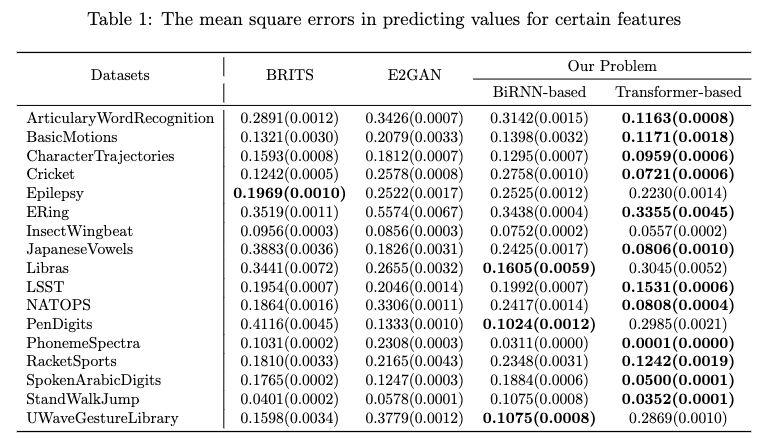
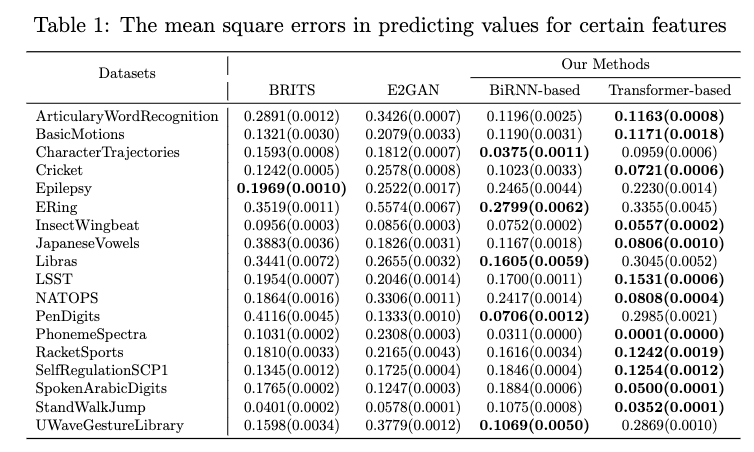
update the performance of generative model performance

diff --git a/Train_GenModel.py b/Train_GenModel.py
@@ -1,14 +1,13 @@
-from models.DistributionApproximation.TimeSeriesGen import TimeSeriesGen_GAN
-from Trainer.Trainer_TimeSeriesGen import TimeSeriesGEN_Trainer
-from datasets.MultivariateUEA import *
+from models.DistributionApproximation.TimeSeriesRnnVAEReconstructor import TimeSeriesRNNVAEGen_GAN
+from Trainer.Trainer_TimeSeriesRNNVAEReconstructor import TimeSeriesRNNVAEReconstructorTrainer
+from datasets.copyMultivariateUEA import MultivariateUEA_train, MultivariateUEA_test
 import pandas as pd
-from datasets.mnist import MNIST_train, MNIST_test
 
 def UAEmain():
     
     UEASummary = pd.read_csv('./datasets/Data/MultivariateUEA/Summary.csv')
     
-    for i in [0, 2, 3, 7, 9, 15, 16, 17, 18, 20, 21, 23, 24, 27, 12, 25, 29, 28, 4]:
+    for i in [15]:
         problem = UEASummary.iloc[i]['Problem']
         sequence_length = UEASummary.iloc[i]['SeriesLength']
         MTS_size = [UEASummary.iloc[i]['SeriesLength'], UEASummary.iloc[i]['NumDimensions']]
@@ -18,15 +17,15 @@ def UAEmain():
         num_classes = UEASummary.iloc[i]['NumClasses']
         input_dim = UEASummary.iloc[i]['NumDimensions']
 
-        dataset = problem
-        params = {
-            'input_dim': input_dim,
-            'latent_dim': 32,
-            'sequence_length': sequence_length,
-            'lr':0.001
-        }
+        latent_dim = 128
+        kl_lambda = 0.00001
+        rec_lambda = 1.0
 
-        model = TimeSeriesGen_GAN(params = params, train_dataset=train_dataset, test_dataset=test_dataset, val_dataset=test_dataset)
+        dataset = 'MultivariateUEA'
+        model_label = problem
+
+        print(problem)
+        model = TimeSeriesRNNVAEGen_GAN(latent_dim, kl_lambda, rec_lambda, input_dim = input_dim, sequence_length=sequence_length, train_dataset=train_dataset, test_dataset=test_dataset, val_dataset=test_dataset)
 
         optim_params = {
                     'lr' : 0.0001,
@@ -34,48 +33,15 @@ def UAEmain():
                 }
 
         logs_params = {
-            'log_dir' : f'logs/{dataset}/{dataset}'
+            'log_dir' : f'runs/GEN_tunning-200/{dataset}/{model_label}'
         }
 
         modelsave_params = {
-            'model_save_dir': f'TrainedModel/Transformer_Gen/{dataset}/'
+            'model_save_dir': f'TrainedModel/GEN_tunning-200/{dataset}/{model_label}'
         }
 
-        trainer = TimeSeriesGEN_Trainer(optim_params=optim_params, logs_params=logs_params, modelsave_params=modelsave_params)
+        trainer = TimeSeriesRNNVAEReconstructorTrainer(optim_params=optim_params, logs_params=logs_params, modelsave_params=modelsave_params)
         trainer.fit(model)
-    
-
-def MNIST_main():
-    
-    
-    train_dataset, test_dataset = MNIST_train(), MNIST_test()
-      
-    dataset = 'MNIST'
-    params = {
-        'input_dim': 28,
-        'latent_dim': 32,
-        'sequence_length': 28,
-        'lr':0.001
-    }
-
-    model = TimeSeriesGen_GAN(params = params, train_dataset=train_dataset, test_dataset=test_dataset, val_dataset=test_dataset)
-
-    optim_params = {
-                'lr' : 0.0001,
-                'max_epoches' : 1000,
-            }
-
-    logs_params = {
-        'log_dir' : f'logs/{dataset}/{dataset}'
-    }
-
-    modelsave_params = {
-        'model_save_dir': f'TrainedModel/Transformer_Gen/{dataset}/'
-    }
-
-    trainer = TimeSeriesGEN_Trainer(optim_params=optim_params, logs_params=logs_params, modelsave_params=modelsave_params)
-    trainer.fit(model)
-
 
 if __name__ == '__main__':
-    MNIST_main()
+    UAEmain()

diff --git a/Readme.md b/Readme.md
@@ -29,10 +29,9 @@ Evaluation.py -- evaluation the results.
 
 ## The performance of our model in predicting plausible values for target features
 
-In our work, we need to generate alternative values for certain features. Time series imputation models developed to fill missing values can be used in our framework. The scenario that these time series imputation models face is the lack of ground truth for the missing values. Therefore, the missing parts cannot be directly predicted based on the observed values. To address this challenge, these models attempt to learn the temporal dependence of time series using observed values. The missing values are then filled based on the learned temporal dependence. However, for our problem, the time series we have are complete, without any missing values. Thus, in predicting plausible values for certain observed features conditioned by their complements, we have ground truth that can be used directly to construct the loss function. We compare the performance of our model with two time series imputation models in predicting values for certain features, and the mean square losses are shown in the following table.
+In our work, we need to generate alternative values for certain features. Time series imputation models can be used in our framework. Time series imputation tries to predict values for the missing parts, while our model generates plausible alternative values for some certain observed features. The difference of them is that for time series imputation problems, the missing parts do not have ground truth. Therefore, these models attempt to learn the temporal dependence of time series using observed values. The missing parts are then filled based on the learned temporal dependence. In our scenario, the time series we have are complete. We have the ground truth for each feature, so we do not need to predict them. Our goal is to generate alternative plausible values for certain features, which can maintain the perturbed time series within-distribution. We compare the performance of our model with two time series imputation models in predicting values for certain features, and the mean square losses are shown in the following Table 1. In our methods, we separately use BiRNNs and Transformer to encoder time series. The results shows that the Transformer-based model perform better than others.  
 
 ![](assets/mseerror.png)
-
 
 
 ## The performance of our framework in explaining black-box classifiers
